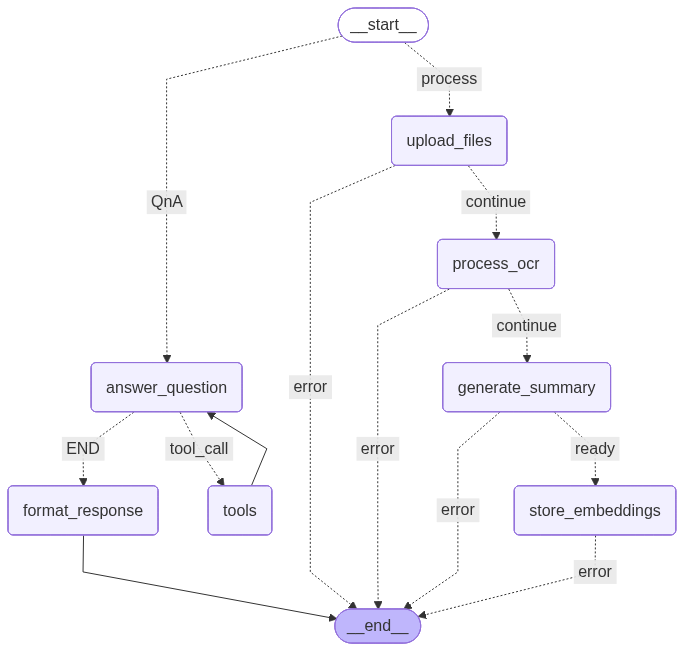
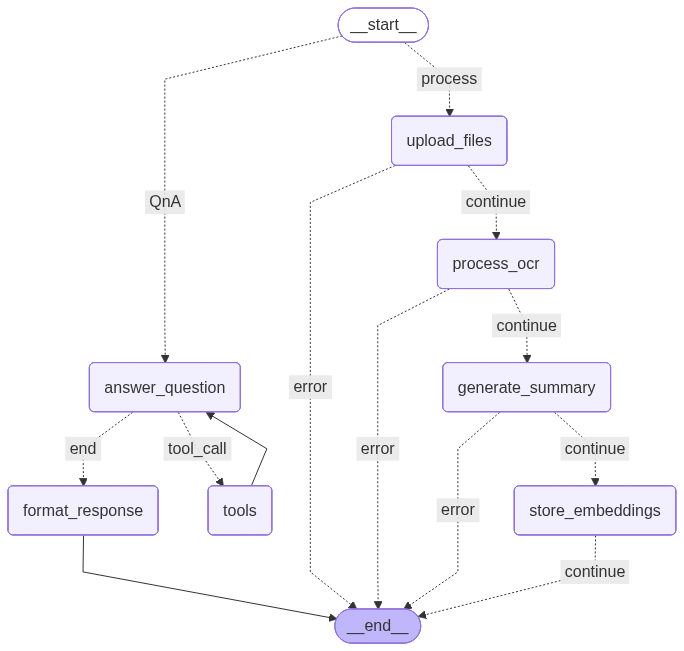
Refactored code for current workflow: streamline routing logic, and enhance error handling

diff --git a/src/agents/main_multi_file_graph.py b/src/agents/main_multi_file_graph.py
@@ -8,6 +8,7 @@ from .multi_file_qa import process_multi_document_question, format_response_for_
 from .store_embeddings import store_embeddings
 from langgraph.prebuilt import ToolNode, tools_condition
 from .multi_file_qa import tools
+from enum import Enum
 
 logger = logging.getLogger(__name__)
 
@@ -34,10 +35,9 @@ class MultiFileDocumentWorkflow:
         workflow.add_node("format_response", format_response_for_gradio)
         
         # Define entry point
-        # workflow.set_entry_point("upload_files")
         workflow.add_conditional_edges(
             START,
-            self._decide_for_process,
+            self._route_initial_request,
             {
                 "process": "upload_files",
                 "QnA": "answer_question"
@@ -45,10 +45,9 @@ class MultiFileDocumentWorkflow:
         )
         
         # Add conditional edges based on processing status
-
         workflow.add_conditional_edges(
             "upload_files",
-            self._decide_after_upload,
+            self._route_on_status,
             {
                 "continue": "process_ocr",
                 "error": END
@@ -57,7 +56,7 @@ class MultiFileDocumentWorkflow:
         
         workflow.add_conditional_edges(
             "process_ocr", 
-            self._decide_after_ocr,
+            self._route_on_status,
             {
                 "continue": "generate_summary",
                 "error": END
@@ -66,76 +65,60 @@ class MultiFileDocumentWorkflow:
         
         workflow.add_conditional_edges(
             "generate_summary",
-            self._decide_after_summarization,
+            self._route_on_status,
             {
-                "ready": "store_embeddings",
+                "continue": "store_embeddings",
                 "error": END
             }
         )
         
         workflow.add_conditional_edges(
             "store_embeddings",
-            self._decide_after_embedding_store,
+            self._route_on_status,
             {
-                "ready": END,
+                "continue": END,
                 "error": END
             }
         )
         
-        # QA node can be called separately
-        workflow.add_conditional_edges("answer_question", self._decide_for_tools, { "tool_call": "tools", "END": "format_response"})
+        workflow.add_conditional_edges(
+            "answer_question", 
+            self._check_tool_calls, 
+            {
+                "tool_call": "tools", 
+                "end": "format_response"
+            }
+        )
         workflow.add_edge("tools", "answer_question")
         workflow.add_edge("format_response", END)
 
-        import webbrowser
         compiled_workflow = workflow.compile()
         with open("workflow_multi_file.png", "wb") as f:
             f.write(compiled_workflow.get_graph().draw_mermaid_png())
         
-        webbrowser.open("workflow_multi_file.png")  # Will open in default image viewer
-        
         return workflow
     
-    def _decide_for_process(self, state: MultiFileDocumentState) -> str:
+    def _route_initial_request(self, state: MultiFileDocumentState) -> str:
         """Decide whether to proceed with processing or go straight to Q&A"""
         if state.get("uploaded_file_paths") == []:
             return "QnA"
         else:
             return "process"
-    
-    def _decide_after_upload(self, state: MultiFileDocumentState) -> str:
-        """Decide next step after file upload"""
+        
+    def _route_on_status(self, state: MultiFileDocumentState) -> str:
+        """Decide which branch of the workflow to take based on overall status"""
         if state.get("overall_status") == ProcessingStatus.ERROR:
             return "error"
         return "continue"
     
-    def _decide_after_ocr(self, state: MultiFileDocumentState) -> str:
-        """Decide next step after OCR processing"""
-        if state.get("overall_status") == "error":
-            return "error"
-        return "continue"
-    
-    def _decide_after_summarization(self, state: MultiFileDocumentState) -> str:
-        """Decide next step after summarization"""
-        if state.get("overall_status") == "error":
-            return "error"
-        return "ready"
-    
-    def _decide_after_embedding_store(self, state: MultiFileDocumentState) -> str:
-        """Decide next step after embedding store"""
-        if state.get("overall_status") == "error":
-            return "error"
-        return "ready"
-    
-    def _decide_for_tools(self, state: MultiFileDocumentState) -> str:
+    def _check_tool_calls(self, state: MultiFileDocumentState) -> str:
         """Decide tools call is present or not"""
         messages = state.get("messages", [])
-        logger.info(f"Last message: {messages[-1]}")
         last_msg = messages[-1]
         if last_msg.tool_calls:
             return "tool_call"
         else:
-            return "END"
+            return "end"
     
     def process_documents(self, uploaded_files: List[Tuple[str, str]]) -> Dict[str, Any]:
         """
@@ -168,6 +151,12 @@ class MultiFileDocumentWorkflow:
         Ask a question about the processed documents
         """
         try:
+            if not question.strip():
+                raise ValueError("Question cannot be empty")
+            
+            if not state.get("overall_status") == ProcessingStatus.VECTORIZED:
+                raise ("Documents must be processed before asking questions")
+            
             # Update state with question
             state["current_query"] = question
             

diff --git a/src/agents/multi_file_processor.py b/src/agents/multi_file_processor.py
@@ -2,17 +2,18 @@ import logging
 import time
 import uuid
 from typing import List, Dict, Any, Tuple
-from pathlib import Path
 from ..core.file_handler import FileHandler
 from ..core.ocr_engine import OCREngine
 from ..core.text_processor import TextProcessor
 from ..config.settings import Config
 from .multi_file_state import MultiFileDocumentState, FileInfo, ProcessingStatus
-import boto3
-import fitz
 from .blueprints import blueprints
 import os
 from dotenv import load_dotenv
+import boto3
+import json
+from urllib.parse import urlparse
+import time
 
 load_dotenv(override=True)
 
@@ -86,9 +87,6 @@ def upload_multiple_files(state: MultiFileDocumentState) -> MultiFileDocumentSta
                 state["files"][file_id] = file_info
                 state["file_upload_order"].append(file_id)
                 
-
-                logger.info(f"File uploaded successfully: {file_name} ({file_type})")
-                
             except Exception as e:
                 logger.error(f"Error uploading file {file_name}: {str(e)}")
                 continue
@@ -149,7 +147,6 @@ def process_all_files_ocr(state: MultiFileDocumentState) -> MultiFileDocumentSta
         if not files:
             raise Exception("No files to process")
 
-        # logger.info(f"Total Files: {len(files)}")
 
         # Initialize processors
         ocr_engine = OCREngine(Config.TESSERACT_CONFIG)
@@ -160,8 +157,6 @@ def process_all_files_ocr(state: MultiFileDocumentState) -> MultiFileDocumentSta
         def process_single_file(file_id: str, file_info: FileInfo) -> Tuple[str, FileInfo]:
             """Process a single file's OCR"""
             try:
-                logger.info(f"Processing OCR for file: {file_info.file_name}")
-                
                 # Update file status
                 file_info.processing_status = ProcessingStatus.PROCESSING
                 
@@ -198,9 +193,7 @@ def process_all_files_ocr(state: MultiFileDocumentState) -> MultiFileDocumentSta
                 file_info.error_message = str(e)
                 return file_id, file_info
         
-        upt_state = process_all_files_via_bda(state)
-
-        logger.info(f"=======================\nState after bda processed: {state}\n=============================\n")
+        updated_state = process_all_files_via_bda(state)
 
         # Process files sequentially (no ThreadPool)
         completed_files = 0
@@ -236,26 +229,13 @@ def process_all_files_ocr(state: MultiFileDocumentState) -> MultiFileDocumentSta
 
         # Combine all processed text
         combined_texts = []
-        combined_chunks = []
         
         for file_info in successful_files:
             # Add file text
             if file_info.processed_text:
                 combined_texts.append(f"=== {file_info.file_name} ===\n{file_info.processed_text}")
-            
-            # Add chunks with file metadata
-            for i, chunk in enumerate(file_info.document_chunks):
-                combined_chunks.append({
-                    "content": chunk,
-                    "file_id": file_info.file_id,
-                    "file_name": file_info.file_name,
-                    "file_type": file_info.file_type,
-                    "chunk_index": i,
-                    "metadata": file_info.chunk_metadata[i] if i < len(file_info.chunk_metadata) else {}
-                })
         
         state["combined_text"] = "\n\n".join(combined_texts)
-        state["combined_chunks"] = combined_chunks
         state["files_completed"] = len(successful_files)
         state["overall_status"] = ProcessingStatus.OCR_COMPLETE
         state["processing_progress"]["overall"] = 80
@@ -296,11 +276,11 @@ def process_all_files_via_bda(state: MultiFileDocumentState) -> MultiFileDocumen
 
                     invocation_arns.append(invocation_arns_obj)
 
-        logger.info(f"#### BDA Imvoked for all files")
+        logger.info(f"Bedrock Data Automation invoked for all files. Waiting for results...")
 
         invocation_results = []
 
-         # Wait for processing to complete
+        # Wait for processing to complete
         while len(invocation_results) != len(invocation_arns):
             for document in invocation_arns:
                 for key, value in document.items():
@@ -348,7 +328,7 @@ def filter_blueprint(s3_uri):
     except Exception as e:
         logger.error(f"Error in filter_blueprint: {str(e)}")
         # Return default blueprint if error occurs
-        return []
+        return blueprints.get("mv-1")
 
 def invoke_bda_job(input_uri:str, output_uri:str):
     try: 
@@ -379,9 +359,6 @@ def invoke_bda_job(input_uri:str, output_uri:str):
         logger.error(f"S3 URI: {input_uri}, Output URI: {output_uri}")
         raise
 
-import time
-import boto3
-
 def get_invocation_result(invocation_arn):
     """
     Function to get the result of a BDA job invocation.
@@ -403,11 +380,6 @@ def get_invocation_result(invocation_arn):
         
         time.sleep(5)
     return response
-
-import boto3
-import json
-from urllib.parse import urlparse
-import anyio
 
 def read_json_result_from_s3(s3_url: str):
     trimmed_url = s3_url.rsplit('/', 1)[0]

diff --git a/src/agents/vector_store.py b/src/agents/vector_store.py
@@ -4,13 +4,51 @@ from langchain_text_splitters import RecursiveCharacterTextSplitter
 from langchain_core.documents import Document
 from uuid import uuid4
 import json
+import os
+import logging
 
-embeddings = BedrockEmbeddings(model_id='amazon.titan-embed-text-v2:0')
+# Configure logging
+logger = logging.getLogger(__name__)
 
-vector_store = Chroma(
-    collection_name="docs_collection",
-    embedding_function=embeddings,
-    persist_directory=f"./data/{uuid4()}",
-)
+def create_embeddings():
+    """Create Bedrock embeddings with error handling."""
+    try:
+        return BedrockEmbeddings(model_id='amazon.titan-embed-text-v2:0')
+    except Exception as e:
+        logger.error(f"Failed to initialize Bedrock embeddings: {e}")
+        raise RuntimeError(f"Bedrock embeddings initialization failed: {e}")
 
-text_splitter = RecursiveCharacterTextSplitter(chunk_size=800, chunk_overlap=150)
+def create_vector_store(embeddings):
+    """Create Chroma vector store with error handling."""
+    try:
+        persist_dir = f"./data/{uuid4()}"
+        os.makedirs(persist_dir, exist_ok=True)
+        
+        return Chroma(
+            collection_name="docs_collection",
+            embedding_function=embeddings,
+            persist_directory=persist_dir,
+        )
+    except Exception as e:
+        logger.error(f"Failed to initialize vector store: {e}")
+        raise RuntimeError(f"Vector store initialization failed: {e}")
+
+def create_text_splitter():
+    """Create text splitter with error handling."""
+    try:
+        return RecursiveCharacterTextSplitter(chunk_size=800, chunk_overlap=150)
+    except Exception as e:
+        logger.error(f"Failed to initialize text splitter: {e}")
+        raise RuntimeError(f"Text splitter initialization failed: {e}")
+
+# Initialize components with error handling
+try:
+    embeddings = create_embeddings()
+    vector_store = create_vector_store(embeddings)
+    text_splitter = create_text_splitter()
+    logger.info("Vector store components initialized successfully")
+except Exception as e:
+    logger.error(f"Failed to initialize vector store components: {e}")
+    embeddings = None
+    vector_store = None
+    text_splitter = None

diff --git a/src/agents/multi_file_qa.py b/src/agents/multi_file_qa.py
@@ -338,7 +338,7 @@ class MultiFileQAAgent:
     def answer_multi_document_question(self, question: str, state: MultiFileDocumentState) -> str:
         """Generate answer using context from all documents"""
         try:
-            retrieved_docs_text = vector_store.similarity_search(question, filter={"type": "text"}, k=5)
+            retrieved_docs_text = vector_store.similarity_search(question, filter={"type": "text"}, k=3)
             
             relevant_context = f"===\n"
             for retrieved_doc in retrieved_docs_text:
@@ -379,7 +379,7 @@ class MultiFileQAAgent:
                 relevant_context=relevant_context,
                 extracted_data=extracted_data,
                 extracted_structured_data=structured_extracted_data,
-                collection_summary=state.get("combined_summary", "No summary available.")[:1000]
+                collection_summary=state.get("combined_summary", "No summary available.")[:300]
             )
             
             if len(state["messages"]) == 0:
@@ -524,7 +524,9 @@ def format_response_for_gradio(state: MultiFileDocumentState) -> MultiFileDocume
             
             LLM response: {llm_response}
             
-            NOTE: Only reply in pure json object's string value, nothing else in your reply. No bacticks, no punctuation, no markdown, nothing like maerkdown json also. And do not include full file path as file name if present, only include file name in the text_answer field.
+            NOTE: 
+            - Only reply in pure json object's string value, nothing else in your reply. No bacticks, no punctuation, no markdown, nothing like maerkdown json also. And do not include full file path as file name if present, only include file name in the text_answer field.
+            - Do not completely modify original LLM response, only extract valid s3 uris and text answer for user's question.
             """
         )
         

diff --git a/src/core/ocr_engine.py b/src/core/ocr_engine.py
@@ -39,6 +39,7 @@ class OCREngine:
     
     def extract_text_from_page(self, page_image_bytes: bytes) -> str:
         textract_client = boto3.client('textract')
+        
         try:
             response = textract_client.detect_document_text(
                 Document={'Bytes': page_image_bytes}
